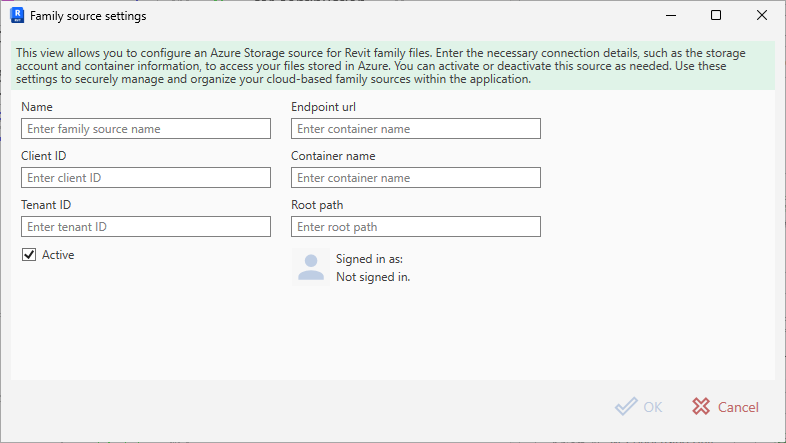
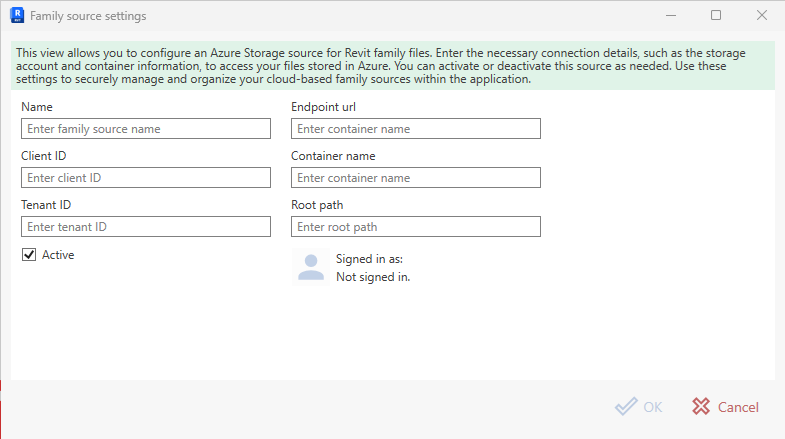
Improve family source docs and update related images
Enhanced documentation for Directory and Azure family sources:
- Clarified descriptions, fields, and step-by-step guides.
- Added examples, best practices, and troubleshooting tips.
- Introduced new sections in Introduction and Managing Family Sources.
- Replaced outdated images with updated UI screenshots.

diff --git a/Documentation/Adding an Azure Family Source.md b/Documentation/Adding an Azure Family Source.md
@@ -1,49 +1,97 @@
 # Adding an Azure Family Source
 
-An Azure family source connects Bim.FamilyManager to a Microsoft Azure Storage account, allowing access to cloud-hosted family libraries.
+An **Azure family source** connects Bim.FamilyManager to a library stored in **Azure Blob Storage**.
 
-## Fields
+Authentication is done via **Azure Active Directory (Entra ID)** using:
+- **Client ID** (application ID)
+- **Tenant ID**
+- interactive sign-in (with silent sign-in when possible)
 
-- **Name**  
-  *A user-friendly name for the Azure source (e.g., "Company Cloud Families").*  
-  **Required**
+![Azure family source settings](Images/settings_family_source_azure.png)
 
-- **Azure Storage Account Name**  
-  *The name of your Azure Storage account.*  
-  **Required**
+## Prerequisites
 
-- **Azure Container Name**  
-  *The name of the blob container where family files are stored.*  
-  **Required**
+To use an Azure family source you typically need:
 
-- **Access Key / SAS Token**  
-  *The access key or Shared Access Signature (SAS) token for authentication.*  
-  **Required**
+- An **Azure Storage Account** (Blob storage)
+- A **Blob container** that contains `.rfa` files
+- An **Azure AD application registration** (for interactive sign-in)
+- Appropriate permissions for the signed-in user (e.g. *Storage Blob Data Reader* or higher on the container/account)
 
-- **Directory Path (within container)**  
-  *The path inside the container where families are located (can be left blank for root).*  
-  Optional
+> The exact permission model depends on how your organization manages Azure. If you’re unsure, ask your Azure admin to provide a Client/Tenant ID pair and grant access to the container.
 
-- **Include Subfolders**  
-  *If enabled, Bim.FamilyManager will search all subfolders within the specified container path.*  
-  Optional (default: enabled)
+## Dialog fields
 
-- **Active**  
-  *Indicates whether this source is currently active and available in the manager.*  
-  Optional (default: enabled)
+### Name (required)
 
-- **Description**  
-  *Optional notes or comments about the Azure source.*  
-  Optional
+A user-friendly name shown in the UI (e.g. `Azure`, `Company Cloud Families`).
+
+### Endpoint url (required)
+
+The storage endpoint URL, for example:
+
+- `https://<account>.blob.core.windows.net`
+
+### Container name (required)
+
+The name of the blob container where families are stored, e.g. `families`.
+
+### Root path (required)
+
+A virtual “folder” path inside the container that scopes the source to a sub-tree.
+
+Examples:
+
+- `Families`
+- `Libraries/MEP`
+- `Revit/2025`
+
+This value is also shown in the **Source** column in the Family Sources list.
+
+### Client ID (required, GUID)
+
+The application (client) ID of your Azure AD app registration, as a GUID.
+
+### Tenant ID (required, GUID)
+
+Your Azure AD (Entra) tenant ID, as a GUID.
+
+### Active
+
+If enabled, the source is used when browsing/searching families.
+
+### Signed in as
+
+Shows the currently signed-in account. When not signed in, it displays **“Not signed in.”**.
+
+## Signing in
+
+- If all required fields are valid, the dialog enables sign-in.
+- Bim.FamilyManager attempts a **silent sign-in** when possible (using cached tokens).
+- If silent sign-in is not possible, use the **Sign in** action to authenticate interactively.
+
+Token caching:
+- Tokens are cached per user under the local profile (LocalAppData) in a folder named `BIM.FamilyManager`.
+- The cache file name contains the client id (e.g. `msal_cache_<clientId>.bin`).
 
 ## Steps
 
-1. Enter a unique name for the source.
-2. Fill in the Azure Storage account and container names.
-3. Provide the access key or SAS token.
-4. Specify the directory path if needed.
-5. Enable or disable subfolder inclusion.
-6. Optionally add a description.
-7. Click "Save" or "Add" to register the source.
+1. Open **Settings → Family Sources**.
+2. Click **Add** and select **Azure Storage**.
+3. Fill in **Name**, **Endpoint url**, **Container name**, **Root path**, **Client ID**, and **Tenant ID**.
+4. Click **Sign in** (if not signed in already).
+5. Confirm with **OK**.
+6. Click **Save** in the settings dialog to persist.
+
+## Troubleshooting
+
+- **“Not signed in.” stays visible**
+  - Verify **Client ID** and **Tenant ID** are valid GUIDs.
+  - Ensure the signed-in user has access to the storage container/account.
+- **Families are not found**
+  - Confirm `Endpoint url` and `Container name` are correct.
+  - Check that your families exist under the specified **Root path**.
+- **Sign-in button disabled**
+  - One or more required fields are missing or invalid (Client/Tenant IDs must be GUIDs).
 
 [Back to Managing Family Sources](Managing%20Family%20Sources.md)

diff --git a/Documentation/Managing Family Sources.md b/Documentation/Managing Family Sources.md
@@ -1,22 +1,66 @@
 # Managing Family Sources
 
-Bim.FamilyManager allows you to connect to multiple sources for your Revit family libraries. These sources can be local or network directories, or Azure Storage containers. Managing your sources enables you to organize, browse, and synchronize families from different locations within the Revit environment.
+The **Family Sources** page in the settings dialog is where you add, edit, remove and enable/disable the locations that Bim.FamilyManager uses to find Revit family files.
 
----
 
-## How to Add a New Family Source
+![Family Sources settings overview](Images/settings_family_sources.png)
 
-1. **Open the Bim.FamilyManager Add-in**
-   - Launch Revit and select the "scotec" tab.
-   - Click on "Bim.FamilyManager" to open the main interface.
 
-2. **Access Settings**
-   - In the Bim.FamilyManager window, click the "Settings" or "Preferences" button (typically a gear icon).
-   - Navigate to the "Family Sources" section.
+## The Family Sources list
 
-3. **Add a New Family Source**
-   - Click the "Add Source" button.
-   - Choose the type of source: [Directory](Adding%20a%20Directory%20Family%20Source.md) or [Azure Storage](Adding%20an%20Azure%20Family%20Source.md).
-   - Follow the instructions in the relevant section to complete the setup.
+Each row represents one configured source.
 
----
+- **Active**  
+  Whether the source is enabled. Only active sources are used for browsing/searching.
+- **Name**  
+  A user-friendly name shown throughout the UI (e.g. “Electrical”, “Furniture”, “Azure”).
+- **Source**  
+  The source “address”, depending on type:
+  - Directory source: the folder path (e.g. `C:\Projectsscotec\Families\Electrical`)
+  - Azure Storage source: the configured **Source** inside the container (e.g. `Families`)
+
+> Disabling a source does **not** delete anything. It only prevents Bim.FamilyManager from using that source until you re-enable it.
+
+## Adding a new source
+
+1. Open **Settings → Family Sources**.
+2. Click **Add**.
+3. Choose a source type in the list and confirm with **OK**.
+
+![New family source type selection](Images/settings_family_source_new.png)
+
+4. Configure the source in the next dialog:
+   - [Directory source](Adding%20a%20Directory%20Family%20Source.md)
+   - [Azure Storage source](Adding%20an%20Azure%20Family%20Source.md)
+5. Confirm with **OK** to add the source to the list.
+6. Click **Save** in the main settings window to persist your changes.
+
+> Changes made in the settings dialog are only written when you press **Save**. Use **Cancel** to discard changes.
+
+## Editing an existing source
+
+1. Select a source row.
+2. Click **Edit**.
+3. Adjust the configuration.
+4. Confirm with **OK**.
+5. Click **Save** to persist.
+
+## Removing a source
+
+1. Select a source row.
+2. Click **Remove**.
+3. Confirm the prompt.
+4. Click **Save** to persist.
+
+Removing a source only removes the configuration entry. It never deletes your families from disk or from Azure.
+
+## Activating / deactivating sources
+
+You can toggle the **Active** checkbox directly in the list. This is useful when you temporarily don’t want a source to be used (e.g. when working offline or when a network share is unavailable).
+
+## Tips
+
+- Use **clear, stable names** (“GA”, “HLS”, “Plumbing”) so your team can align on the same conventions.
+- Prefer **UNC paths** (e.g. `\\server\share\Families`) over mapped drives when you work across different machines.
+- Keep sources **scoped**. Many very large roots (especially Azure) can increase initial indexing/browsing time.
+

diff --git a/Documentation/Introduction.md b/Documentation/Introduction.md
@@ -1,28 +1,38 @@
 # Introduction
 
-**Bim.FamilyManager** is an advanced add-in for Autodesk® Revit® (2025 and newer) designed to centralize and streamline the management, organization, and deployment of Revit family files. It enables users to browse, preview, and load families from multiple sources—including local directories and Azure cloud storage—directly within the Revit environment.
+**Bim.FamilyManager** is an add-in for **Autodesk® Revit® 2025 and newer** that centralizes how you *store, find, preview, and load* Revit family files (`.rfa`) into your projects.
 
-With a modern, user-friendly interface, Bim.FamilyManager supports drag-and-drop, batch operations, metadata management, and extensibility for custom sources. The tool is ideal for architects, engineers, and BIM managers who need efficient access to family libraries, versioning, and seamless integration with Revit workflows.
+Instead of relying on a single “office library” folder, Bim.FamilyManager can work with **multiple family sources** at the same time—e.g. departmental folders on a file server plus a curated library in **Azure Blob Storage**. Each source can be enabled/disabled and configured independently.
 
----
+## What is a “family source”?
 
-## Contents
+A **family source** is a configured connection to a location that contains family files:
 
-- [Introduction](Introduction.md)
+- **Directory source**: a local, network, or shared folder path
+- **Azure Storage source**: an Azure Blob container + optional virtual root path, authenticated through Azure AD (interactive sign‑in)
+
+Sources appear in the UI as named entries with a **Source** value (path / root path). Only **active** sources are used when browsing/searching families.
+
+## Goals
+
+Bim.FamilyManager aims to:
+
+- Provide a **single place** to manage multiple family libraries
+- Make families easier to **discover** through consistent browsing/searching
+- Support **cloud-based libraries** without changing the Revit workflow
+- Keep configuration **per user** (so each user can point to the sources they need)
+
+## Quick start
+
+1. Open Revit and start **Bim.FamilyManager** from the Revit ribbon.
+2. Open **Settings → Family Sources**.
+3. Add one or more sources (Directory / Azure Storage).
+4. Click **Save** in the settings dialog.
+5. Return to the main UI and browse/search/load families from your sources.
+
+## Documentation map
+
 - [Managing Family Sources](Managing%20Family%20Sources.md)
 - [Adding a Directory Family Source](Adding%20a%20Directory%20Family%20Source.md)
 - [Adding an Azure Family Source](Adding%20an%20Azure%20Family%20Source.md)
-- [Browsing and Searching Families](Browsing%20and%20Searching%20Families.md)
-- [Previewing and Loading Families](Previewing%20and%20Loading%20Families.md)
-- [Settings and Preferences](Settings%20and%20Preferences.md)
-- [Troubleshooting](Troubleshooting.md)
-- [Advanced Features](Advanced%20Features.md)
 
----
-
-**Key Features:**
-- Centralized management of Revit families from local and cloud sources
-- Family and type preview images
-- Drag-and-drop loading into projects or the family editor
-- Batch operations and metadata/version tracking
-- Extensible architecture for custom storage providers and UI themes

diff --git a/Documentation/Adding a Directory Family Source.md b/Documentation/Adding a Directory Family Source.md
@@ -1,36 +1,54 @@
 # Adding a Directory Family Source
 
-A directory family source connects Bim.FamilyManager to a local or network folder containing Revit family files.
+A **Directory family source** connects Bim.FamilyManager to a local or network folder that contains Revit family files (`.rfa`).
 
-## Fields
+This is the simplest source type and typically used for:
+- an office library folder on a file server
+- discipline-specific folders (ELT, HLS, GA, …)
+- a local “work-in-progress” library during development
 
-- **Name**  
-  *A user-friendly name for the source (e.g., "Local Library" or "Network Families").*  
-  **Required**
+## Dialog fields
 
-- **Path**  
-  *The full path to the folder containing your `.rfa` family files.*  
-  **Required**  
-  Example: `C:\BIM\RevitFamilies` or `\\Server\Shared\Families`
+![Directory family source settings](Images/settings_family_source_directory.png)
 
-- **Include Subfolders**  
-  *If enabled, Bim.FamilyManager will search for families in all subfolders of the specified path.*  
-  Optional (default: enabled)
+### Name (required)
 
-- **Active**  
-  *Indicates whether this source is currently active and available in the manager.*  
-  Optional (default: enabled)
+A user-friendly name shown in the list of sources and throughout the UI. Keep it short and recognizable, e.g.:
 
-- **Description**  
-  *Optional notes or comments about the source (e.g., "Main office library").*  
-  Optional
+- `Mechanical`
+- `Electrical`
+- `Plumbing`
+
+### Directory (required)
+
+The folder path that contains your family files. You can:
+
+- paste/type the path directly, or
+- click the folder button to browse and select a directory
+
+Examples:
+
+- `C:\BIM\RevitFamilies\Furniture`
+- `\\Server\Shared\Families\Plumbing`
+
+### Active
+
+If enabled, the source is used when browsing/searching families. You can also toggle this later in the source list.
 
 ## Steps
 
-1. Enter a unique name for the source.
-2. Browse or type the folder path.
-3. Enable or disable subfolder inclusion.
-4. Optionally add a description.
-5. Click "Save" or "Add" to register the source.
+1. Open **Settings → Family Sources**.
+2. Click **Add** and select **Directory**.
+3. Enter a **Name**.
+4. Select the **Directory** (folder).
+5. Optionally uncheck **Active** if you don’t want to use it immediately.
+6. Click **OK**.
+7. Click **Save** in the settings dialog to persist.
+
+## Notes and best practices
+
+- **Permissions & availability:** Make sure the directory is reachable from the machine where Revit runs (especially for network shares).
+- **Drive mappings:** If you work with multiple machines/users, prefer UNC paths over mapped drives to avoid inconsistencies.
+- **Performance:** Very large folders can take longer to enumerate. Consider splitting huge libraries into multiple sources.
 
 [Back to Managing Family Sources](Managing%20Family%20Sources.md)
